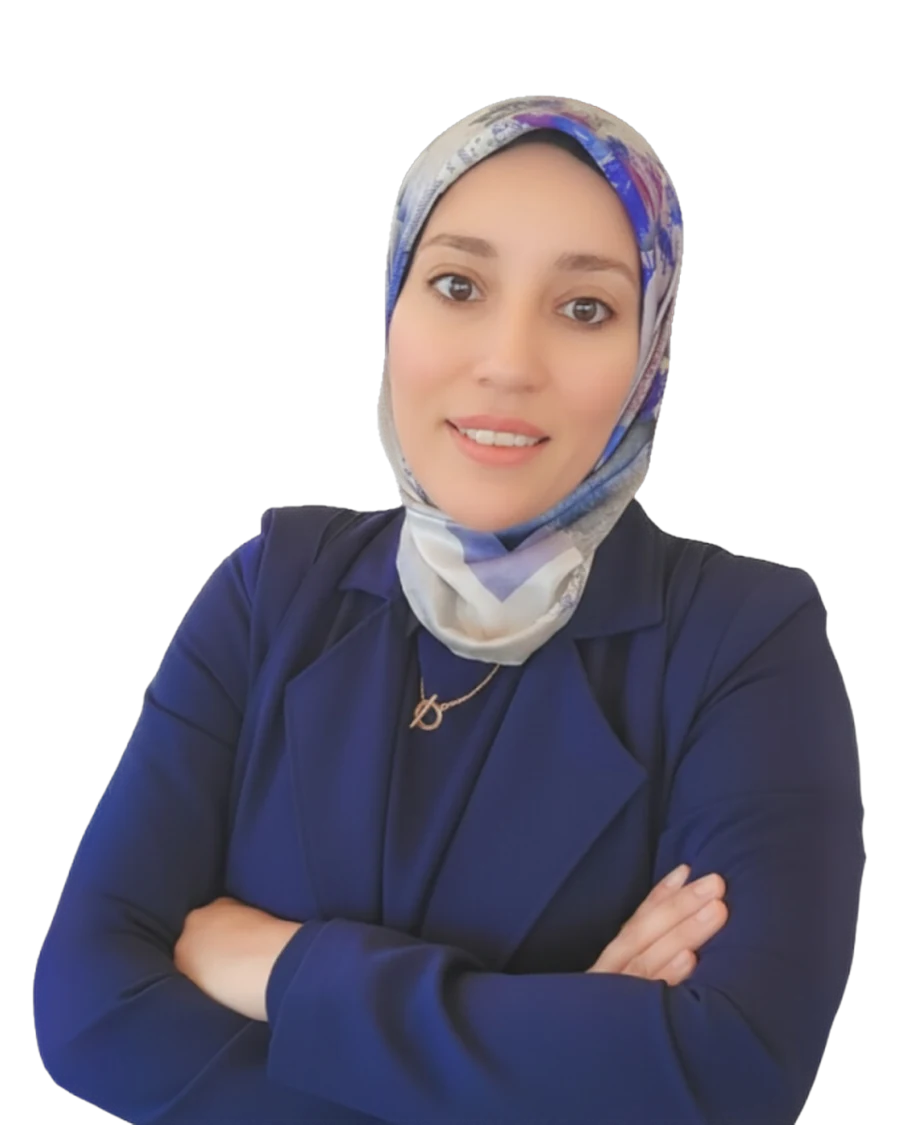
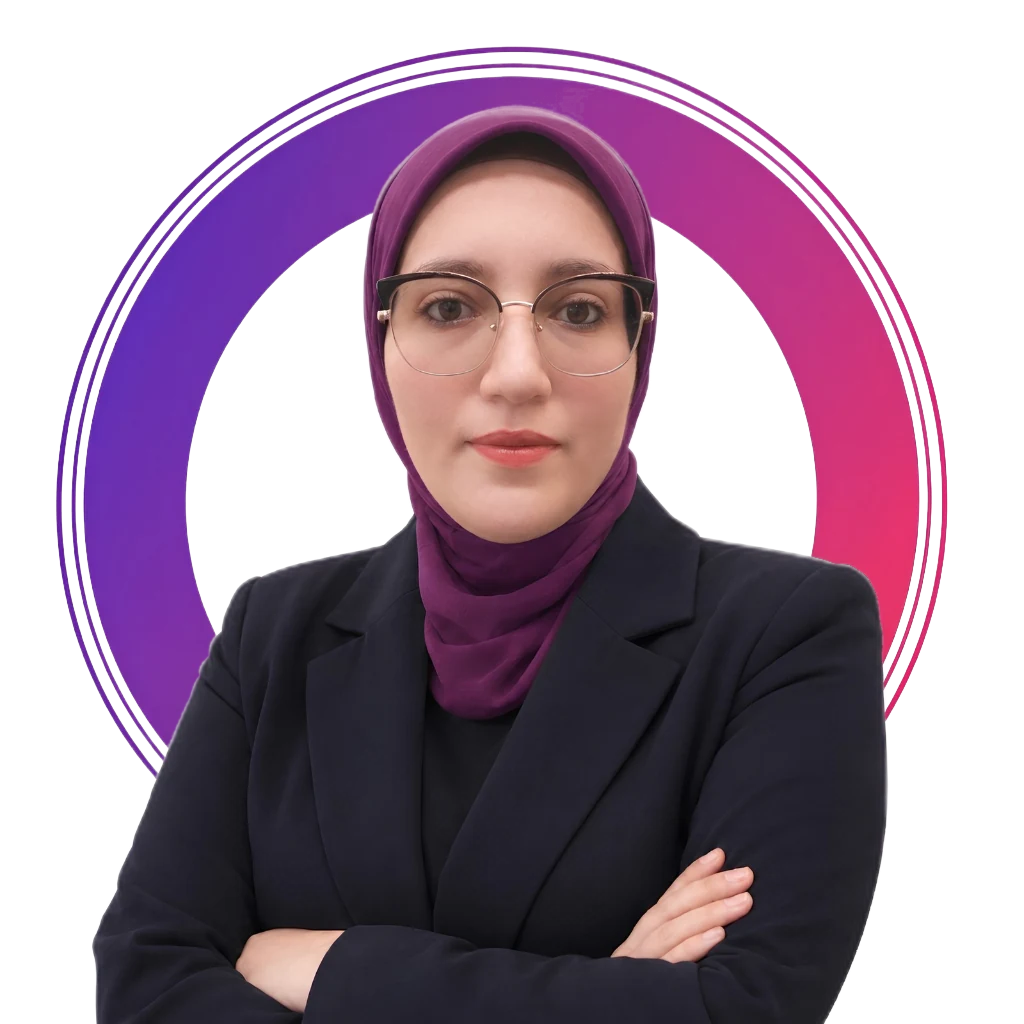
Update photo: replace index.html, site.css, hala.webp
Claude-Session: https://claude.ai/code/session_01Noo8ygAFp4g7JriatgeJS1

diff --git a/site.css b/site.css
@@ -64,7 +64,11 @@ h1{font-size:clamp(42px,6vw,76px);line-height:1.02;font-weight:800;margin:26px 0
 /* portrait + AI answer card */
 .visual{position:relative;padding-bottom:56px}
 .portrait{width:78%;margin-left:auto;aspect-ratio:4/5;border-radius:240px 240px 28px 28px;background:radial-gradient(circle at 50% 38%,#D9CCFF 0%,#9C84F0 38%,#4A2F9A 75%,#2A1A52 100%);overflow:hidden;position:relative;box-shadow:0 40px 80px rgba(0,0,0,.35)}
-.portrait img{width:100%;height:100%;object-fit:cover;object-position:center bottom}
+.portrait img{width:100%;height:100%;object-fit:contain;object-position:center bottom}
+.portrait.ring{aspect-ratio:1/1;border-radius:0;background:radial-gradient(circle at 50% 45%,rgba(185,167,245,.22),transparent 62%);box-shadow:none;overflow:visible}
+.portrait.ring{width:92%}
+.portrait.ring~.answer{left:-14%;bottom:-110px;width:min(300px,72%)}
+.portrait.ring img{filter:drop-shadow(0 30px 50px rgba(0,0,0,.45))}
 .portrait .ph{position:absolute;inset:0;display:flex;align-items:center;justify-content:center}
 .portrait .ph svg{width:46%;opacity:.35}
 .answer{position:absolute;left:-8%;bottom:-36px;width:min(340px,80%);background:rgba(255,255,255,.97);color:var(--ink);border-radius:20px;padding:18px 18px 16px;box-shadow:0 30px 60px rgba(0,0,0,.35);font-size:14px}
@@ -254,7 +258,7 @@ footer nav a:hover{color:var(--mid)}
 .cases.two{grid-template-columns:repeat(2,1fr)}
 @media (max-width:960px){.case-feature{grid-template-columns:1fr;padding:28px}.cases.two{grid-template-columns:1fr}}
 
-@media (max-width:960px){.portrait{width:86%;margin:0 auto}.answer{position:relative;left:auto;bottom:auto;margin:-48px auto 0;width:94%}.visual{padding-bottom:0}}
+@media (max-width:960px){.portrait{width:86%;margin:0 auto}.answer,.portrait.ring~.answer{position:relative;left:auto;bottom:auto;margin:-24px auto 0;width:94%}.visual{padding-bottom:0}}
 
 /* ---------- nav dropdown: case studies ---------- */
 .nav .dd{position:relative}

diff --git a/index.html b/index.html
@@ -131,8 +131,8 @@
       </div>
 
       <div class="visual rv d2">
-        <div class="portrait">
-          <img src="hala.webp" alt="Hala Shamaly, GEO and AI search strategist" width="900" height="1125" fetchpriority="high">
+        <div class="portrait ring">
+          <img src="hala.webp" alt="Hala Shamaly, GEO and AI search strategist" width="1024" height="1024" fetchpriority="high">
         </div>
         <div class="engine-pill">ai_citation: <b>detected ✓</b></div>
         <div class="answer" aria-hidden="true">
